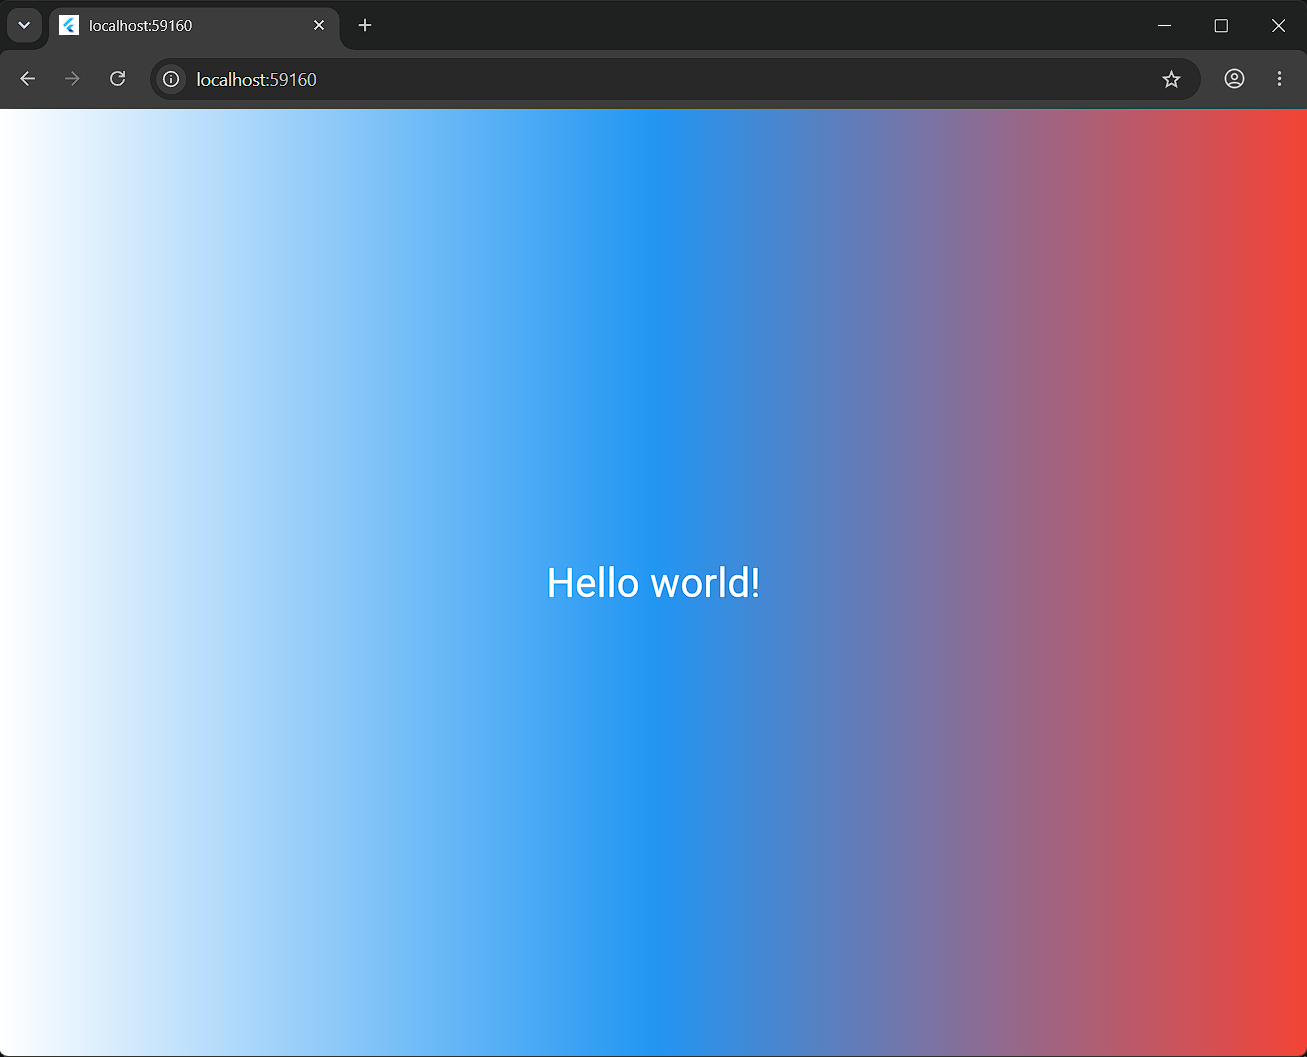
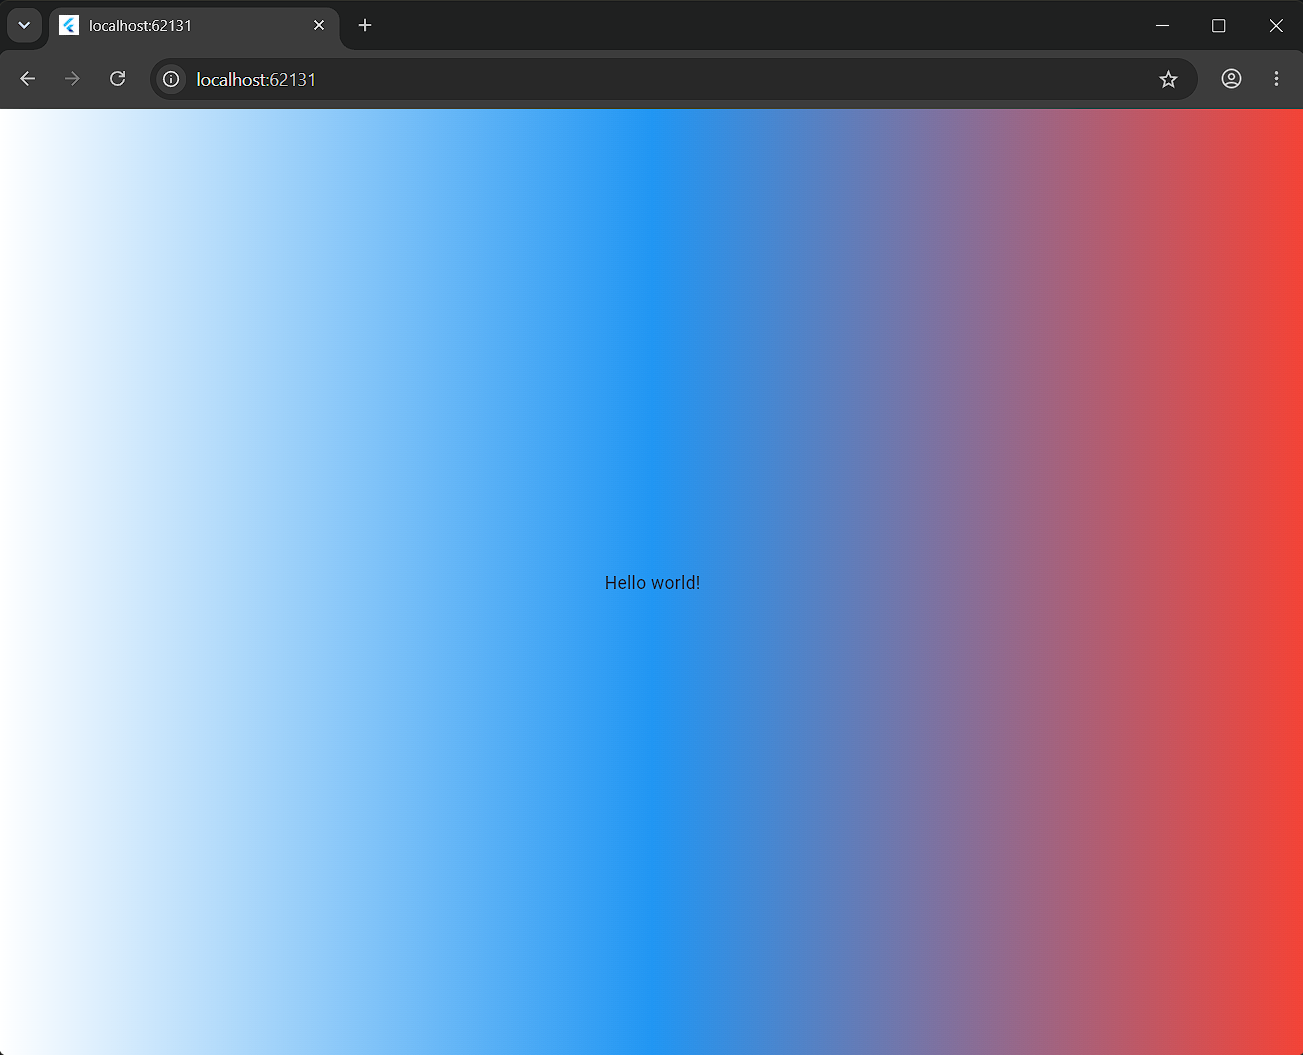
added README description

diff --git a/README.md b/README.md
@@ -1,17 +1,34 @@
-# first_flutter_app
+# Flutter Lab 3
 
-A new Flutter project.
+Мой первый проект на Flutter, созданный в рамках лабораторной работы №3. Приложение выводит приветствие на градиентном фоне.
 
-## Getting Started
+## Информация об авторе
 
-This project is a starting point for a Flutter application.
+Студент: Колесников Владислав Александрович
+Группа: ИСП-241
 
-A few resources to get you started if this is your first Flutter project:
+## Стек и версии
 
-- [Learn Flutter](https://docs.flutter.dev/get-started/learn-flutter)
-- [Write your first Flutter app](https://docs.flutter.dev/get-started/codelab)
-- [Flutter learning resources](https://docs.flutter.dev/reference/learning-resources)
+- Flutter 3.x.x
+- Dart 3.x.x
+- Платформа: Web (Chrome)
+- IDE: VS Code
 
-For help getting started with Flutter development, view the
-[online documentation](https://docs.flutter.dev/), which offers tutorials,
-samples, guidance on mobile development, and a full API reference.
+## Скриншот приложения
+
+![Скриншот приложения](img/step9_Колесников.png)
+
+## Как запустить
+
+1. Клонировать репозиторий: `git clone <https://github.com/Demor865/first_flutter_app.git>`
+2. Перейти в папку проекта: `cd first_flutter_app`
+3. Выполнить `flutter pub get`
+4. Запустить командой `flutter run -d chrome`
+
+## Что изучили
+
+1. Структуру Flutter-проекта и основные команды (`flutter create`, `flutter run`).
+2. Понятие виджета и дерева виджетов (Widget Tree).
+3. Базовые виджеты: `MaterialApp`, `Scaffold`, `Container`, `Center`, `Text`.
+4. Работу с Hot Reload (r) и Hot Restart (R).
+5. Оформление фона через `BoxDecoration` и `LinearGradient`, а также стилизацию текста через `TextStyle`.
